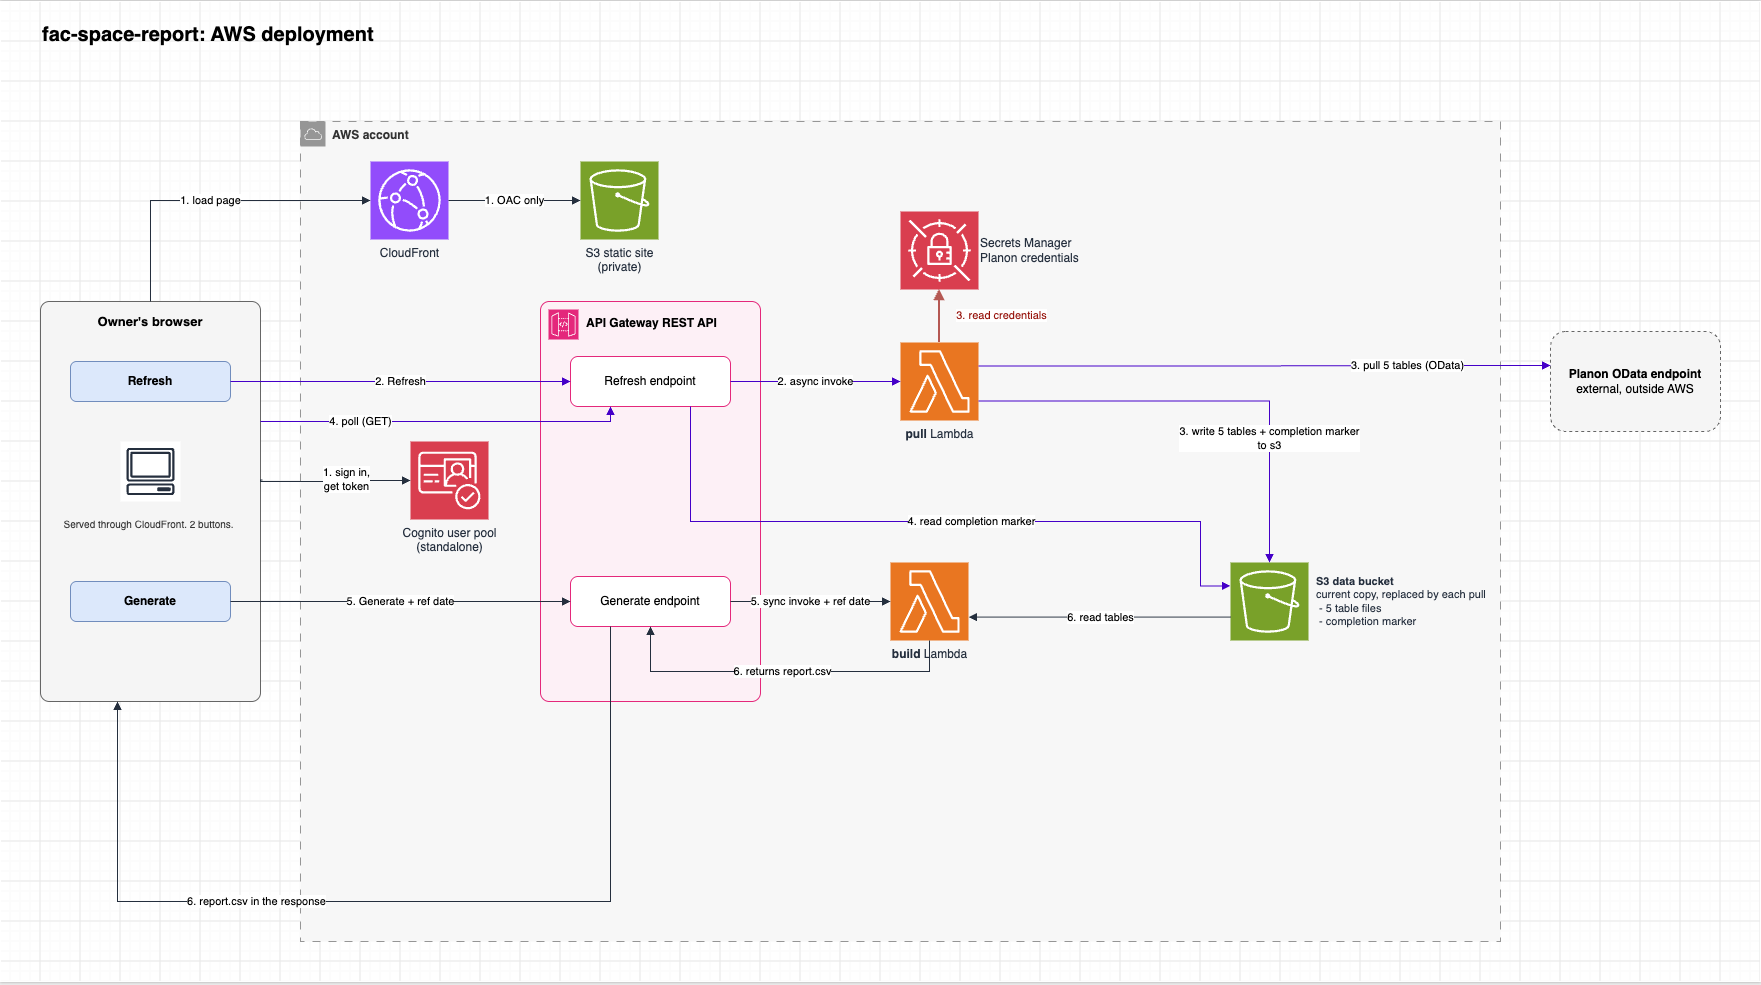
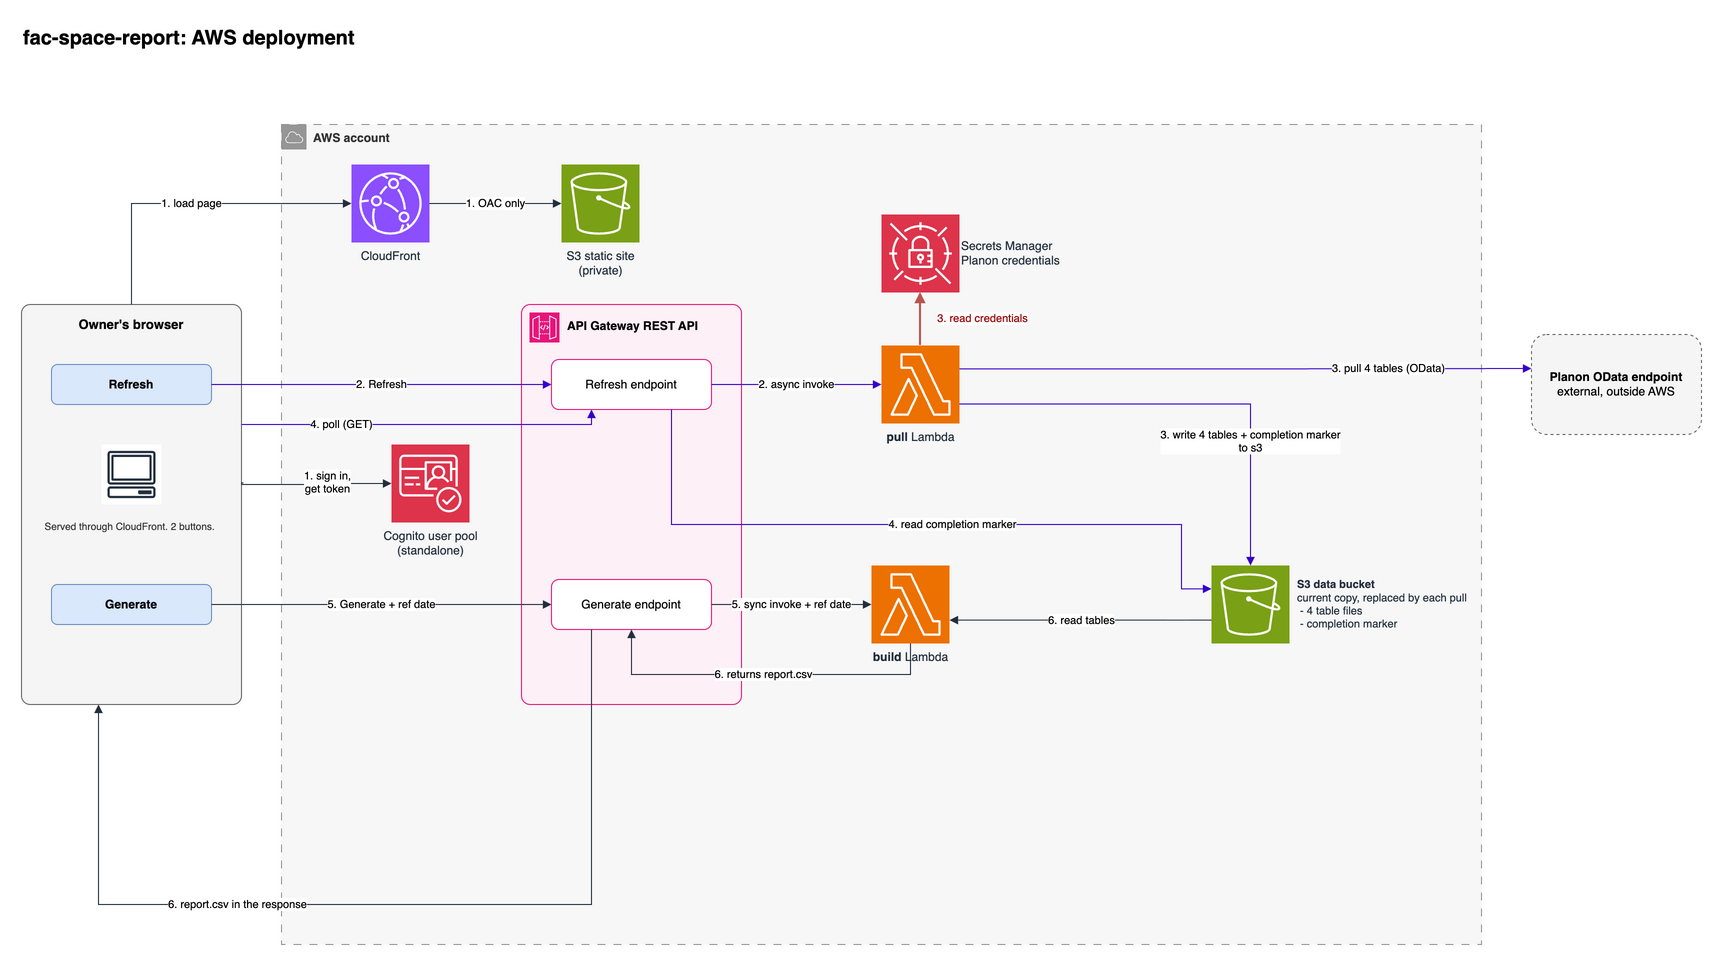
feat: count ASF by CSU space code and name the area columns GSF and ASF
The stakeholder asked for both after reviewing the report.

ASF: a room used to count only when its space standard and that
standard's parent both existed and neither was 000 Nonassignable. It now
counts when its CSU space code (SpaceUsage.FreeString1) is filled in,
which is how space is reported to the Chancellor's Office. A room in
transition to a 000 standard no longer drops off while it is still
reported. On Planon production pulled 2026-10-02 the report matches the
stakeholder's own per-facility sums on 186 of 187 facilities, including
the two they asked us to check (021- 85566, 021-A 6991). The one left,
043-, is two spaces whose spacekey says 043 but whose Planon property,
043-B, is not part of a reported facility.

Headers: Area 14 and Area 15, Planon's DAD slot names, are now GSF and
ASF. compare.py reads Planon's export by position, so it still lines up.

SpaceStandard: nothing reads it anymore, so the pull, the page, the docs
and the diagram drop to four tables. Once this is deployed, the old
tables/SpaceStandard.csv in the data bucket can be deleted.

diff --git a/cdk/site/index.html b/cdk/site/index.html
@@ -39,7 +39,7 @@
           <tbody id="table-rows"></tbody>
         </table>
         <button type="button" class="button" id="refresh">Refresh from Planon</button>
-        <p class="hint">A refresh replaces all five tables with a fresh copy from Planon. It can take several minutes.</p>
+        <p class="hint">A refresh replaces all four tables with a fresh copy from Planon. It can take several minutes.</p>
         <details class="deployment">
           <summary>Deployment details</summary>
           <dl id="deployment-details"></dl>
@@ -58,7 +58,7 @@
       <p class="hint toolbar-hint">The report is a snapshot of Planon as it stood on the reference date.</p>
       <div class="empty" id="report-empty">
         <p>No report yet. Choose a reference date and generate one.</p>
-        <p>It is built from the five tables listed under Planon data.</p>
+        <p>It is built from the four tables listed under Planon data.</p>
       </div>
       <div class="grid-wrap" id="report-wrap" hidden>
         <table class="grid" id="report-grid"></table>

diff --git a/cdk/site/app.js b/cdk/site/app.js
@@ -3,8 +3,8 @@
 // Everything this page knows about the deployment comes from config.json, which the
 // CDK stack writes next to it: { apiUrl, loginUrl, clientId }.
 
-const TABLES = ["Property", "PropertyDetails", "SpaceUsage", "SpaceStandard", "BaseCodes"];
-const NUMERIC_COLUMNS = new Set(["Area 14", "Area 15", "EFFC"]);
+const TABLES = ["Property", "PropertyDetails", "SpaceUsage", "BaseCodes"];
+const NUMERIC_COLUMNS = new Set(["GSF", "ASF", "EFFC"]);
 const POLL_EVERY_MS = 4000;
 const GIVE_UP_AFTER_MS = 16 * 60 * 1000; // the pull function is stopped at 15 minutes
 const SILENT_TRIED = "silent-sign-in-tried";

diff --git a/cdk/site/app.css b/cdk/site/app.css
@@ -122,7 +122,7 @@ body {
 
 .hint { margin: 8px 0 0; color: var(--seal-gray); font-size: 13.5px; }
 
-/* The five Planon tables */
+/* The four Planon tables */
 
 .tables { width: 100%; margin-bottom: 14px; border-collapse: collapse; font-variant-numeric: tabular-nums; }
 .tables th, .tables td { padding: 6px 0; border-bottom: 1px solid var(--rule); text-align: left; }

diff --git a/pipeline/build_report.py b/pipeline/build_report.py
@@ -28,20 +28,20 @@ ROOT = os.path.dirname(HERE)
 
 # Tables the report needs. Space is deliberately absent: SpaceUsage carries its
 # own PropertyRef, which agrees with Space.PropertyRef on every row.
-TABLES = ["Property", "PropertyDetails", "SpaceUsage", "SpaceStandard", "BaseCodes"]
+TABLES = ["Property", "PropertyDetails", "SpaceUsage", "BaseCodes"]
 
 # All six CSU centers. Confirmed by the stakeholder: include every one, and do
 # not drop properties whose center is blank.
 CSU_CENTERS = ["00", "01", "02", "03", "SC-00", "SC-01"]
 
-# Planon's own export header. Area 14 and Area 15 are the DAD slot names it
-# uses for GSF and ASF; keeping them means the two files diff cleanly.
+# Planon's own export header, except that Planon prints GSF and ASF under their
+# DAD slot names, Area 14 and Area 15. The stakeholder asked for the real names.
 COLUMNS = [
     "NUM", "SFX", "FAC NAME",
     "CATEGORY CODE", "CATEGORY DESC",
     "STATUS CODE", "STATUS DESC",
     "OWNER CODE", "OWNER DESC",
-    "Area 14", "Area 15", "EFFC", "COMPL DATE",
+    "GSF", "ASF", "EFFC", "COMPL DATE",
 ]
 
 
@@ -156,7 +156,6 @@ class Report:
         self.property = {r["Syscode"]: r for r in self.source.table("Property")}
         self.details = self.source.table("PropertyDetails")
         self.usage = self.source.table("SpaceUsage")
-        self.standard = {r["Syscode"]: r for r in self.source.table("SpaceStandard")}
         self.codes = {r["Syscode"]: r for r in self.source.table("BaseCodes")}
 
     # Step 2
@@ -220,28 +219,19 @@ class Report:
 
     # Step 6
     def assignable(self) -> dict[str, float]:
-        """PropertyRef -> assignable square feet, nonassignable space excluded."""
+        """PropertyRef -> assignable square feet, from spaces with a CSU space code."""
         totals: dict[str, float] = defaultdict(float)
         for row in self.usage:
             if not effective(row, self.ref_date):
                 continue
-            standard = self.standard.get(row.get("SpaceStandardRef") or "")
-            if standard is None:
-                if row.get("SpaceStandardRef"):
-                    self.note(
-                        f"SpaceStandardRef {row['SpaceStandardRef']} "
-                        f"not found in SpaceStandard"
-                    )
+            # FreeString1 is the CSU space code (SpCd). The stakeholder's revised
+            # definition counts a space when it is populated, which replaced the
+            # old SpaceStandard '000' Nonassignable test.
+            spcd = row.get("FreeString1")
+            if not spcd:
                 continue
-            if standard.get("Code") == "000":
-                continue
-            # Both the space standard and its parent must be present and not
-            # '000'. A missing parent excludes the record, per the migration
-            # requirements. No numeric effect on current data (every standard in
-            # use has a parent) but it is the agreed rule.
-            parent = self.standard.get(standard.get("ParentRef") or "")
-            if parent is None or parent.get("Code") == "000":
-                continue
+            # Only to report a dangling code; the space still counts.
+            self.resolve(spcd, "SPACE_SPCD")
             totals[row.get("PropertyRef") or ""] += num(row.get("FloorArea"))
         return totals
 
@@ -319,7 +309,7 @@ class Report:
 # ---------------------------------------------------------------------- output
 
 def fmt_effc(gsf, asf) -> str:
-    """Area 15 divided by Area 14, blank if either is blank or zero.
+    """ASF divided by GSF, blank if either is blank or zero.
 
     This follows the migration requirements rather than Planon, which prints a
     literal "0" for the roughly 70 facilities that have gross area but no
@@ -341,7 +331,7 @@ def write_csv(rows: list[dict], path: str, ref_date: str) -> None:
 
     One section per CSU center, introduced by a "<date> : <code> - <name>" row
     with the center columns folded into it, each section closed by a subtotal
-    carrying only Area 14 and Area 15, and a grand total on the final line.
+    carrying only GSF and ASF, and a grand total on the final line.
     Trailing comma on every row and CRLF endings, both as Planon emits them.
     """
     blank = [""] * len(COLUMNS)

diff --git a/cdk/fac_space_report/stack.py b/cdk/fac_space_report/stack.py
@@ -104,7 +104,7 @@ class FacSpaceReportStack(Stack):
         )
         site_url = f"https://{site.distribution_domain_name}"
 
-        # "S3 data bucket": the current copy of the five tables plus the completion
+        # "S3 data bucket": the current copy of the four tables plus the completion
         # marker. Each pull overwrites the last.
         data_bucket = s3.Bucket(
             self,
@@ -128,12 +128,12 @@ class FacSpaceReportStack(Stack):
         )
 
         # "pull Lambda". Invoked asynchronously by the Refresh endpoint: reads the
-        # Planon login, pulls the five tables over OData, writes them and then the
+        # Planon login, pulls the four tables over OData, writes them and then the
         # completion marker. Planon is outside AWS, so there is nothing to build for it.
         pull_fn = lambda_.Function(
             self,
             "PullFunction",
-            description="Copies the five Planon tables into the data bucket",
+            description="Copies the four Planon tables into the data bucket",
             runtime=RUNTIME,
             architecture=ARCHITECTURE,
             handler="handler.handler",

diff --git a/cdk/functions/pull/handler.py b/cdk/functions/pull/handler.py
@@ -1,4 +1,4 @@
-"""pull Lambda: copy the five Planon tables into the data bucket (diagram step 3).
+"""pull Lambda: copy the four Planon tables into the data bucket (diagram step 3).
 
 Bundled next to connector/planon_odata.py, which does the OData work.
 """
@@ -11,7 +11,7 @@ import boto3
 
 from planon_odata import PlanonODataClient, render
 
-TABLES = ["Property", "PropertyDetails", "SpaceUsage", "SpaceStandard", "BaseCodes"]
+TABLES = ["Property", "PropertyDetails", "SpaceUsage", "BaseCodes"]
 
 s3 = boto3.client("s3")
 secrets = boto3.client("secretsmanager")

diff --git a/README.md b/README.md
@@ -24,7 +24,7 @@ It is for the facilities staff who own the report. They sign in to one page with
 **Refresh** copies the current data out of Planon, and **Generate** builds the report for a
 reference date and downloads it as a CSV.
 
-No Planon-side logic is carried over. The report is rebuilt from five raw Planon tables, and
+No Planon-side logic is carried over. The report is rebuilt from four raw Planon tables, and
 the rules for every column are written down in
 [`docs/report-column-paths.md`](docs/report-column-paths.md).
 
@@ -35,7 +35,7 @@ the rules for every column are written down in
 - **Page:** a static, dependency-free HTML/JS page in a private S3 bucket, served through CloudFront
 - **Sign-in:** a standalone Amazon Cognito user pool with Cognito's managed login pages. No self sign-up; an admin creates each account
 - **API:** API Gateway REST API. Every endpoint requires a Cognito token
-- **Pull:** a Python Lambda, started asynchronously by Refresh, that copies five tables from Planon's OData endpoint into an S3 data bucket and writes a completion marker the page polls for
+- **Pull:** a Python Lambda, started asynchronously by Refresh, that copies four tables from Planon's OData endpoint into an S3 data bucket and writes a completion marker the page polls for
 - **Build:** a Python Lambda, called synchronously by Generate, that builds the report from those tables and returns it as `report.csv`. It refuses while a refresh is running or after one failed, so the tables never come from two different pulls
 - **Secrets:** the Planon login is kept in AWS Secrets Manager, entered after deploy and never in the repo or the template
 - **External dependency:** Planon's OData endpoint (`planon.calpoly.edu`) is the only thing outside AWS
@@ -92,12 +92,12 @@ Change a value and run `cdk deploy` again.
 ## Usage
 
 **Running the report.** Open the page, sign in, and click **Refresh from Planon**. A refresh
-replaces all five tables and shows the row counts when it
+replaces all four tables and shows the row counts when it
 finishes. Then pick a reference date and click **Generate report**. The report shows on the
 page, and **Download CSV** saves it. Refresh again whenever you need newer data.
 
-**How the report is built.** Five Planon tables: `Property`, `PropertyDetails`, `SpaceUsage`,
-`SpaceStandard` and `BaseCodes`. A report row is a **facility**, a group of buildings sharing
+**How the report is built.** Four Planon tables: `Property`, `PropertyDetails`, `SpaceUsage`
+and `BaseCodes`. A report row is a **facility**, a group of buildings sharing
 `PropertyDetails.FreeString13`. That field points at one member, the **anchor**, and every
 descriptive value comes from it. Areas sum across the whole group. Two filters, both from the
 requirements doc: the reference date, and `PropertyDetails.FreeString14` ("Reported to

diff --git a/docs/report-column-paths.md b/docs/report-column-paths.md
@@ -15,17 +15,21 @@ every member.
 | CATEGORY CODE / DESC | anchor's `PropertyDetails.FreeString8` -> `BaseCodes` -> Code, Name |
 | STATUS CODE / DESC | anchor `Property.FreeString5` -> `BaseCodes` -> Code, Name |
 | OWNER CODE / DESC | anchor's `PropertyDetails.FreeString9` -> `BaseCodes` -> Code, Name |
-| Area 14 (GSF) | sum `PropertyDetails.GrossFloorArea` over every member |
-| Area 15 (ASF) | sum `SpaceUsage.FloorArea` over every member's spaces, filtered |
-| EFFC | Area 15 / Area 14, blank if either is blank or zero |
+| GSF | sum `PropertyDetails.GrossFloorArea` over every member |
+| ASF | sum `SpaceUsage.FloorArea` over every member's spaces that have a CSU SpCd |
+| EFFC | ASF / GSF, blank if either is blank or zero |
 | COMPL DATE | anchor `Property.PurchaseDate`, printed `MM-YYYY` |
 | Center (section header) | anchor `Property.FreeString7` -> `BaseCodes` -> Code, Name |
 
 ## ASF filter
 
-Drop a `SpaceUsage` row unless its `SpaceStandardRef` resolves **and** that
-standard's `ParentRef` resolves, and neither `Code` is `'000'`. `000` is named
-"Nonassignable", which is what makes assignable square feet assignable.
+Drop a `SpaceUsage` row whose `FreeString1` (CSU SpCd, space type) is blank.
+`FreeString1` -> `BaseCodes` (group `SPACE_SPCD`) gives the space type's name,
+e.g. `0095 Dorm-Single`, but only whether it is populated matters for the sum.
+
+This replaced an older rule that dropped rows whose `SpaceStandard`, or its
+parent, had code `000` "Nonassignable". The report no longer reads
+`SpaceStandard`.
 
 ## Which rows count
 
@@ -53,4 +57,5 @@ Names for the slots, from the requirements doc.
 | `Property.FreeString5` | Master plan status |
 | `Property.FreeString7` | CSU center |
 | `Property.FreeString11` | Full name |
-| `Area 14` / `Area 15` | CSU GSF / CSU ASF |
+| `SpaceUsage.FreeString1` | CSU SpCd (space type) |
+| `Area 14` / `Area 15` | CSU GSF / CSU ASF. Planon's own export uses these as the GSF and ASF headers |

diff --git a/pipeline/README.md b/pipeline/README.md
@@ -15,14 +15,14 @@ source .venv/bin/activate
 python -m pip install -r requirements.txt
 cp .env.example .env        # fill in PLANON_USERNAME and PLANON_PASSWORD
 
-for t in Property PropertyDetails SpaceUsage SpaceStandard BaseCodes; do
+for t in Property PropertyDetails SpaceUsage BaseCodes; do
   mkdir -p ../source_data/$t
   python3 planon_odata.py $t --format csv --out ../source_data/$t/$t.csv
 done
 cd ..
 ```
 
-Run it from `connector/`, which is where it looks for `.env`. It writes the five tables into
+Run it from `connector/`, which is where it looks for `.env`. It writes the four tables into
 `source_data/`, which is gitignored. Re-run it whenever you need current data. More on the
 connector: [`connector/README.md`](../connector/README.md).
 

diff --git a/docs/install.md b/docs/install.md
@@ -87,7 +87,7 @@ aws cognito-idp admin-delete-user --user-pool-id USER_POOL_ID --username REPLACE
 *The page.*
 
 Open it, sign in, and click **Refresh from Planon**. When it finishes the page lists a row
-count for each of the five tables: that proves the Planon login works and Planon is reachable
+count for each of the four tables: that proves the Planon login works and Planon is reachable
 from AWS. Then pick a reference date and click **Generate report**. A report on screen is the
 end-to-end check.
 
